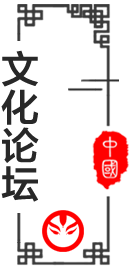
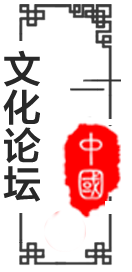
2018032201

diff --git a/advanced/frontend/web/front/css/whxy_layout.css b/advanced/frontend/web/front/css/whxy_layout.css
@@ -1,0 +1,76 @@
+*{margin: 0;padding: 0;font-size: 14px;font-family: "微软雅黑";}
+body{background: -moz-linear-gradient(top, #d2d1d7 0%, #ffffff 100%);background: -webkit-gradient(linear, left top, left bottom, color-stop(0%,#d2d1d7), color-stop(100%,#ffffff));background: -webkit-linear-gradient(top, #d2d1d7 0%,#ffffff 100%);background: -o-linear-gradient(top, #d2d1d7 0%,#ffffff 100%);background: -ms-linear-gradient(top, #d2d1d7 0%,#ffffff 100%);background: linear-gradient(to bottom, #d2d1d7 0%,#ffffff 100%);}
+a{text-decoration: none;}
+ul{list-style: none;}
+address, cite, dfn, em, var, i {font-style: normal;}
+.btn,.btn:focus,.btn:active{padding:5px 10px;border:0px;border-radius: 2px;background:#f3f3f3;outline: none;}
+input:-webkit-autofill, input:-webkit-autofill:hover,input:-webkit-autofill:focus,input:-webkit-autofill:active {-webkit-transition-delay: 99999s;-webkit-transition: color 99999s ease-out, background-color 99999s ease-out;}
+/*头部*/
+.header{height: 288px;width: 100%;min-width: 1200px;max-width: 2000px;margin: 0 auto;background: url(../img/news/whxy_top_bg.jpg) no-repeat center !important; background-size: 2000px 288px;}
+/*头部搜索框*/
+.header form{display:inline-block;}
+.header .full-text-search {width: 1200px;margin: 0 auto;box-sizing: border-box;padding-top: 10px;padding-right: 15px;color: red;text-align: right;}
+.full-text-search .search-form-sp,.full-text-search .search-btn-sp,.full-text-search input{-moz-box-sizing: border-box;  /*Firefox3.5+*/-webkit-box-sizing: border-box; /*Safari3.2+*/-o-box-sizing: border-box; /*Opera9.6*/-ms-box-sizing: border-box; /*IE8*/box-sizing: border-box; /*W3C标准(IE9+，Safari5.1+,Chrome10.0+,Opera10.6+都符合box-sizing的w3c标准语法)*/}
+.header .full-text-search .search-form-sp{display: inline-block;width: 200px;height: 25px;border: 1px solid red;    border-top-left-radius: 4px;border-bottom-left-radius: 4px;}
+.full-text-search input,.full-text-search input:focus,.full-text-search input:active{background-color: transparent;border: 0px;width: 200px;height: 25px;outline:none;padding-left: 2px;}
+.full-text-search .search-btn-sp{width: 40px;}
+.full-text-search .search-btn-sp button{outline: none;background-color: red;border: 0;height: 25px;line-height: 25px;padding-top: 1px;margin-left: -4px;color: #fff;}
+.header .full-text-search a{text-decoration: none;color: red;font-weight: bold;margin-left: 5px;    display: inline-block;height: 25px;line-height: 25px;padding: 0px 10px;}
+/*头部右侧轮播图*/
+.header .header-crousel{width: 1200px;margin: 0 auto;box-sizing: border-box;height: 200px;margin-top: -10px;text-align: right;position: relative;}
+.header .header-crousel .crousel-parent{width: 447px;height: 200px;overflow: hidden;float: right;}
+.header .header-crousel .crousel img{background-clip: padding-box;display: block;float: left;}
+.header .header-crousel .crousel{width:1341px;height:200px;-webkit-animation:change 10s linear infinite; /*10s是整个动画的秒数 infinite永久循环*/}
+@-webkit-keyframes change{
+    0%{
+        margin-left:0;
+    }
+    30%{
+        margin-left:0; 
+    }
+    /*总共用10秒，0%到30% 也是3.333秒第一张图片停留位置后面以此类推*/
+    33%{
+        margin-left:-447px;
+    }
+    63%{
+        margin-left:-447px;
+    }
+    66%{
+        margin-left:-894px;
+    }
+    97%{
+        margin-left:-894px;
+    }
+    100%{
+        margin-left:-1341px;
+    }
+}
+/*头部LOGO*/
+.header .header-crousel .logo{float: left;height: 200px;position: relative;}
+.header .header-crousel .logo img{display: block;position: absolute;width: 180px;height: 180px;top: 50%;margin-top: -90px;}
+.header .header-crousel .logo .logo-title{position: absolute;width: 431px;top: 50%;height: 140px;margin-top: -70px;text-align: left;padding: 20px;left: 140px;}
+.header .header-crousel .logo .logo-title h3{font-size: 35px;color: red;text-shadow: 2px 3px 10px #fff, 2px -2px 2px #fff;font-family:"微软雅黑";}
+/*首页导航*/
+.header .nav{width:100%;height: 60px;line-height: 44px;min-width: 1200px;max-width: 2000px;margin: 0 auto;background-size: 2000px 60px;}
+.header .nav ul {width: 1200px;margin: 0 auto;position: relative;box-sizing: border-box;}
+.header .nav li{position: relative;float: left;display: inline-block;width: 100px;text-align: center;}
+.header .nav li a{display: inline-block;width: 100px;font-size: 16px;font-weight: bold;color: #fff;text-align: center;}
+.header .nav li a:first-child{text-align: left;padding-left: 10px;}
+.header .nav li:hover .nav-item,.header .nav li .nav-item{display: block;}
+.header .nav li .nav-item{position: absolute;width: 100px;height: auto;background: #d34231;z-index: 10;opacity: 0.8;display: none;border-bottom-left-radius: 10px;border-bottom-right-radius: 10px;word-wrap: break-word;overflow: hidden;text-overflow: ellipsis;white-space: nowrap;}
+.header .nav li .nav-item li{height: 35px;line-height: 35px;}
+.header .nav li .nav-item li a{font-size: 14px;    word-wrap: break-word;overflow: hidden;text-overflow: ellipsis;white-space: nowrap;box-sizing: border-box;}
+.header .nav li .nav-item li:hover a,.header .nav li a.active{color: #fac747;}
+/*内容区域*/
+section{width: 1200px;height:auto;margin: 0 auto;padding: 15px;box-sizing: border-box;    padding-bottom: 80px;background:#fff;}
+/*友情链接*/
+.friendship-box{margin-top: 50px;}
+.friendship-box .tab a.tab-title{display: inline-block;margin: 0px 30px 15px 50px;color: #b9a272;font-size: 16px;font-weight:700}
+.friendship-box .tab a.active,.friendship-box .tab a:hover{color: red;}
+.friendship-box .link-list{display: none;border-top: 2px solid #f66060;padding-top: 10px;}
+
+.friendship-box .link-list ul {padding: 0px 0px;display: block;position: relative;overflow: hidden;}
+.friendship-box .link-list li a{display: block;padding: 10px 15px 10px 5px;float: left;margin-right: 50px;color: #333333;}
+/*footer*/
+.footer{width: 1200px;margin: 0 auto;height: 230px;background: url(../img/index/footer_bg.jpg) center no-repeat;background-size:1200px 230px;position: relative;}
+.footer p{text-align: center;color: #333;font-weight: 600;padding: 10px 0px;}

diff --git a/advanced/frontend/views/layouts/whxy.php b/advanced/frontend/views/layouts/whxy.php
@@ -5,10 +5,10 @@
 
 use yii\helpers\Html;
 use yii\bootstrap\Nav;
-use frontend\assets\AppAsset;
+use frontend\assets\WhxyAsset;
 use yii\helpers\Url;
 
-AppAsset::register($this);
+WhxyAsset::register($this); 
 $params = $this->params;
 ?>
 <?php $this->beginPage() ?>
@@ -20,8 +20,6 @@ $params = $this->params;
     <meta name="viewport" content="width=device-width, initial-scale=1">
     <?= Html::csrfMetaTags() ?>
     <title><?= Html::encode($this->title) ?></title>
-    <link rel="stylesheet" href="//g.alicdn.com/de/prismplayer/2.5.0/skins/default/aliplayer-min.css" />
-     <script type="text/javascript" src="//g.alicdn.com/de/prismplayer/2.5.0/aliplayer-min.js"></script>
     <?php $this->head() ?>
 </head>
 <body>
@@ -41,11 +39,7 @@ $params = $this->params;
 				</div>
 				<div class="header-crousel">
 					<div class="logo">
-						<img src="<?php echo $params['webCfgs']['logo'] ? $params['webCfgs']['logo']: '/front/img/index/logo.png';?>" width="140px" />
-						<div class="logo-title">
-							<h3><?php echo $params['webCfgs']['siteName'];?></h3>
-							<h3><?php echo $params['webCfgs']['siteName2'];?></h3>
-						</div>
+						<img src="<?php echo '/front/img/news/whxy_logo.png';?>" width="180px" />
 					</div>
 					<div class="crousel-parent">
 						<div class="crousel">
@@ -61,11 +55,6 @@ $params = $this->params;
 						<li><a <?php if(!isset($params['pid'])){echo 'class="active"';}?>   href="<?php echo Url::to(['site/index'])?>">学院首页</a></li>
 						<?php foreach ($params['nav'] as $v):?>
 						<li><a <?php if(isset($params['pid']) && $params['pid'] == $v['id']){echo 'class="active"';}?> href="<?php echo Url::to(['news/list','pid'=>$v['id'],'cateid'=>0,'pcode'=>$v['code']])?>"><?php echo $v['codeDesc'];?></a>
-							<ul class="nav-item" >
-								<?php foreach ($v['cates'] as $cate):?>
-								<li><a  href="<?php echo Url::to(['news/list','pid'=>$v['id'],'cateid'=>$cate['id'],'pcode'=>$v['code']])?>"><?php echo $cate['text'];?></a></li>
-								<?php endforeach;?>
-							</ul>
 						</li>
 						<?php endforeach;?>
 					</ul>

diff --git a/advanced/frontend/controllers/NewsController.php b/advanced/frontend/controllers/NewsController.php
@@ -56,7 +56,7 @@ class NewsController extends CommonController
         Yii::$app->view->params['pid'] = $parent->id;
         //父级分类为  文化学院模块 
         if($parent->code == 'whxy' && $cateid == 0){
-            $this->layout = 'index';
+            $this->layout = 'whxy';
             $data = [
                 'whjl' => NewsLogic::getWhjlList(),
                 'whlt' => NewsLogic::getWhltList()
@@ -106,9 +106,9 @@ class NewsController extends CommonController
             $currentCate->cateCode == CategoryType::SZQK || $currentCate->cateCode == CategoryType::XYJJ ||
             $currentCate->cateCode == CategoryType::XYDZ || $currentCate->cateCode == CategoryType::ZZJG || $currentCate->cateCode == CategoryType::ZKZX){
                 
-                $info = SchooleInformation::findOne(['type'=>$currentCate->cateCode]);
+            $info = SchooleInformation::findOne(['type'=>$currentCate->cateCode]);
                 
-                return $this->render('schoolinfo',['parent'=>$parent,'cateList'=>$cateList,'info'=>$info,'currentCate'=>$currentCate]);
+            return $this->render('schoolinfo',['parent'=>$parent,'cateList'=>$cateList,'info'=>$info,'currentCate'=>$currentCate]);
         }else {
         	
         	$list = $this->getNewsList($currentCate, $data);

diff --git a/advanced/frontend/assets/WhxyAsset.php b/advanced/frontend/assets/WhxyAsset.php
@@ -1,0 +1,37 @@
+<?php
+
+namespace frontend\assets;
+
+use yii\web\AssetBundle;
+
+/**
+ * Main frontend application asset bundle.
+ */
+class WhxyAsset extends AssetBundle
+{
+    public $basePath = '@webroot';
+    public $baseUrl = '@web';
+    public $css = [
+        'front/css/normalize.css',
+        'front/css/whxy_layout.css',
+    ];
+    public $js = [
+        'front/js/common.js',
+        'front/js/jquery.crousle.js'
+    ];
+    public $depends = [
+        'yii\web\YiiAsset',
+        /* 'yii\bootstrap\BootstrapAsset', */
+    ];
+    
+    
+    //定义按需加载JS方法，注意加载顺序在最后
+    public static function addScript($view, $jsfile) {
+        $view->registerJsFile($jsfile, [WhxyAsset::className(), 'depends' => 'frontend\assets\WhxyAsset']);
+    }
+    
+    //定义按需加载css方法，注意加载顺序在最后
+    public static function addCss($view, $cssfile) {
+        $view->registerCssFile($cssfile, [WhxyAsset::className(), 'depends' => 'frontend\assets\WhxyAsset']);
+    }  
+}

diff --git a/advanced/frontend/assets/LoginAsset.php b/advanced/frontend/assets/LoginAsset.php
@@ -27,11 +27,11 @@ class LoginAsset extends AssetBundle
     
     //定义按需加载JS方法，注意加载顺序在最后
     public static function addScript($view, $jsfile) {
-        $view->registerJsFile($jsfile, [AppAsset::className(), 'depends' => 'frontend\assets\AppAsset']);
+        $view->registerJsFile($jsfile, [LoginAsset::className(), 'depends' => 'frontend\assets\LoginAsset']);
     }
     
     //定义按需加载css方法，注意加载顺序在最后
     public static function addCss($view, $cssfile) {
-        $view->registerCssFile($cssfile, [AppAsset::className(), 'depends' => 'frontend\assets\AppAsset']);
+        $view->registerCssFile($cssfile, [LoginAsset::className(), 'depends' => 'frontend\assets\LoginAsset']);
     }
 }

diff --git a/advanced/frontend/views/news/whxy.php b/advanced/frontend/views/news/whxy.php
@@ -1,7 +1,7 @@
 <?php
 
 
-use frontend\assets\AppAsset;
+use frontend\assets\WhxyAsset;
 use yii\helpers\Url;
 
 $this->title = '文化学院';
@@ -50,5 +50,5 @@ $this->title = '文化学院';
 </div>
 
 <?php 
-AppAsset::addCss($this, '/front/css/whxy.css');
+WhxyAsset::addCss($this, '/front/css/whxy.css');
 ?>

diff --git a/advanced/backend/controllers/RbacController.php b/advanced/backend/controllers/RbacController.php
@@ -5,7 +5,6 @@ namespace backend\controllers;
 
 use Yii;
 use common\controllers\CommonController;
-use yii\db\Query;
 use backend\models\Rbac;
 /**
  * @name 权限管理
